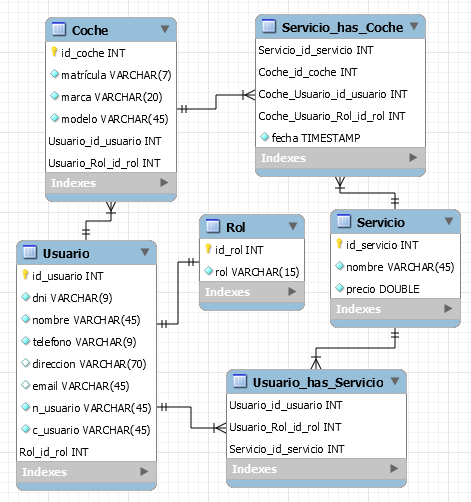
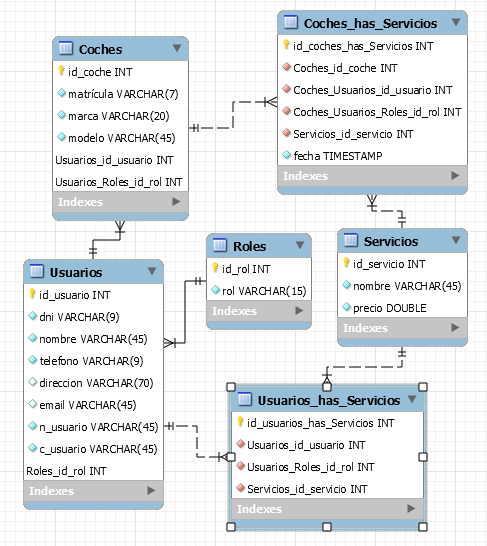
cambios plurales en tablas BD

Changed region(s): [[0.0297, 0.0, 0.9809, 0.9861]]

diff --git a/src/back/api/emotionsApp/src/main/java/com/proxecto_daw/emotionsApp/models/U_realiza_s.java b/src/back/api/emotionsApp/src/main/java/com/proxecto_daw/emotionsApp/models/U_realiza_s.java
@@ -6,9 +6,6 @@ import jakarta.persistence.*;
 @Table(name = "u_realiza_s")
 public class U_realiza_s {
 
-    /*Esta columna falta el la tabla, yo no le añadí un id
-     * ahora, hace falta. No se puede probar hasta que esté añadido
-     */
     @Id
     @GeneratedValue(strategy = GenerationType.IDENTITY)
     @Column(name = "id_u_realiza_s")

diff --git a/src/back/api/emotionsApp/src/main/java/com/proxecto_daw/emotionsApp/models/S_aplica_c.java b/src/back/api/emotionsApp/src/main/java/com/proxecto_daw/emotionsApp/models/S_aplica_c.java
@@ -8,9 +8,6 @@ import jakarta.persistence.*;
 @Table(name = "s_aplica_c")
 public class S_aplica_c {
 
-    /*Esta columna falta el la tabla, yo no le añadí un id
-     * ahora, hace falta. No se puede probar hasta que esté añadido
-     */
     @Id
     @GeneratedValue(strategy = GenerationType.IDENTITY)
     @Column(name = "id_s_aplica_c")

diff --git a/src/back/api/emotionsApp/src/main/java/com/proxecto_daw/emotionsApp/models/Servicio.java b/src/back/api/emotionsApp/src/main/java/com/proxecto_daw/emotionsApp/models/Servicio.java
@@ -5,7 +5,7 @@ import java.util.List;
 import jakarta.persistence.*;
 
 @Entity
-@Table(name = "servicio")
+@Table(name = "servicios")
 public class Servicio {
 
     @Id

diff --git a/src/back/api/emotionsApp/src/main/java/com/proxecto_daw/emotionsApp/models/Usuario.java b/src/back/api/emotionsApp/src/main/java/com/proxecto_daw/emotionsApp/models/Usuario.java
@@ -5,7 +5,7 @@ import java.util.List;
 import jakarta.persistence.*;
 
 @Entity
-@Table (name="usuario")
+@Table (name="usuarios")
 public class Usuario {
 
     @Id

diff --git a/src/back/api/emotionsApp/src/main/java/com/proxecto_daw/emotionsApp/models/Coche.java b/src/back/api/emotionsApp/src/main/java/com/proxecto_daw/emotionsApp/models/Coche.java
@@ -5,7 +5,7 @@ import java.util.List;
 import jakarta.persistence.*;
 
 @Entity
-@Table(name="coche")
+@Table(name="coches")
 public class Coche {
 
     @Id

diff --git a/src/back/api/emotionsApp/src/main/java/com/proxecto_daw/emotionsApp/models/Rol.java b/src/back/api/emotionsApp/src/main/java/com/proxecto_daw/emotionsApp/models/Rol.java
@@ -5,7 +5,7 @@ import java.util.List;
 import jakarta.persistence.*;
 
 @Entity
-@Table(name="rol")
+@Table(name="roles")
 public class Rol {
 
     @Id
